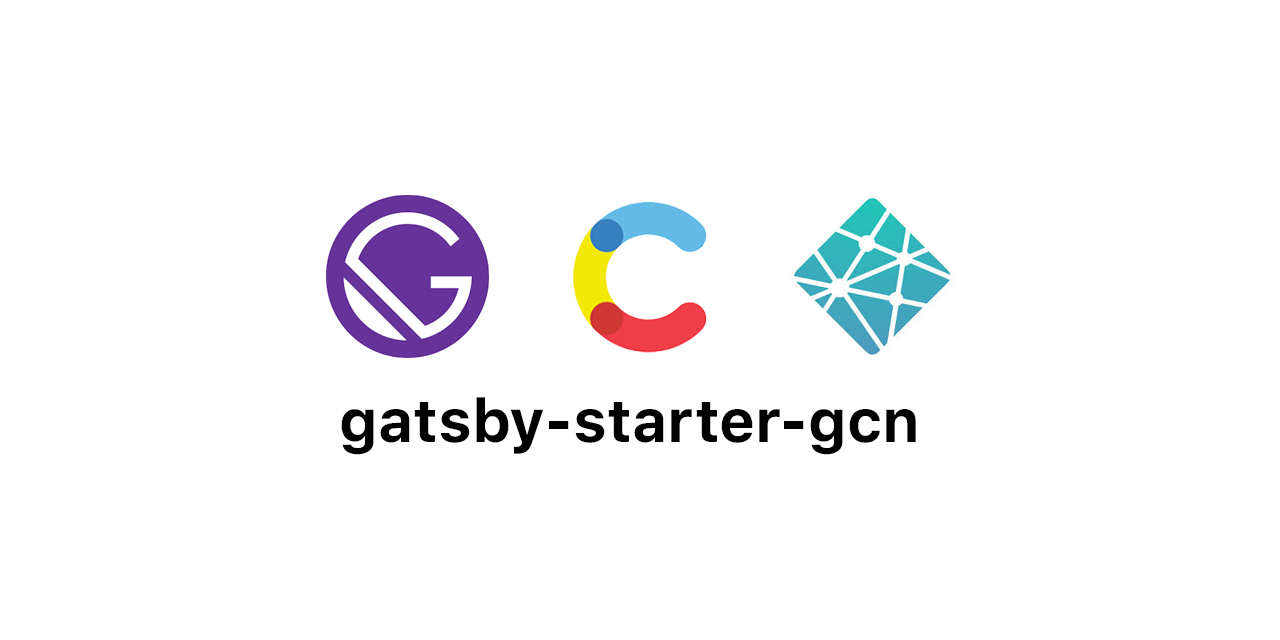
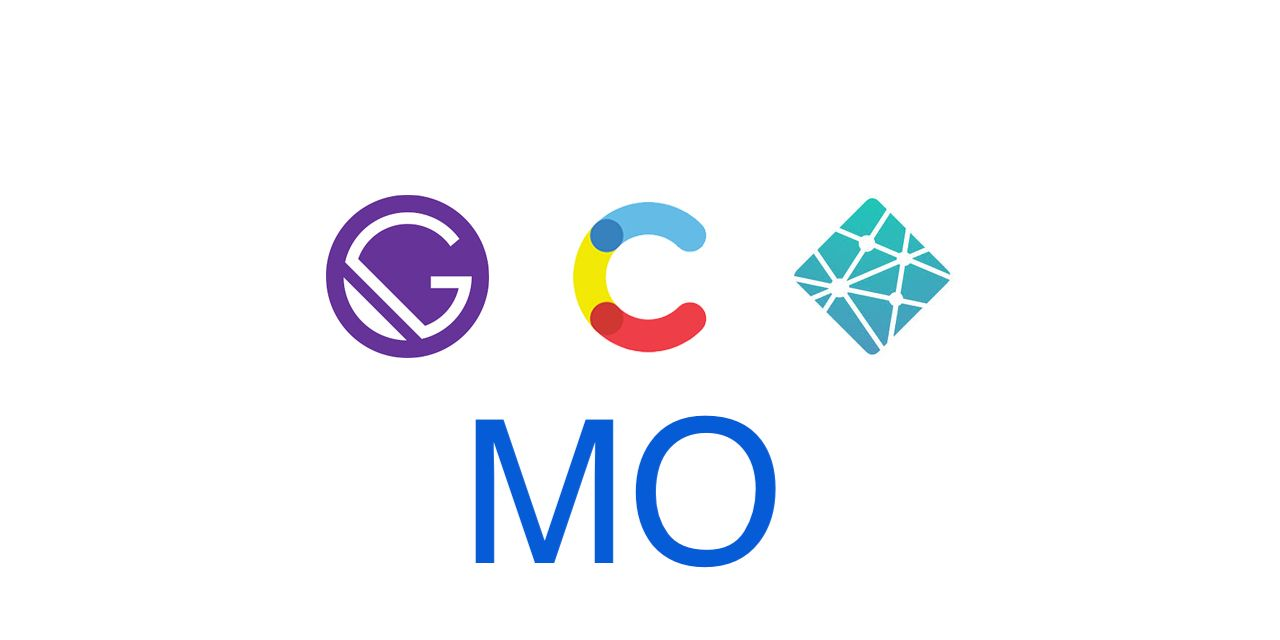
navigation update, share image update

diff --git a/gatsby-config.js b/gatsby-config.js
@@ -12,7 +12,7 @@ module.exports = {
   siteMetadata: {
     title: 'Merja Oksman',
     description:
-      'Merja Oksman, kaikessa mukana',
+      'Merja Oksman, monessa mukana',
     siteUrl: 'https://merjaoksman.fi',
     image: '/images/share.jpg',
     menuLinks: [
@@ -25,20 +25,16 @@ module.exports = {
         slug: '/kunta-ja-aluevaalit-2025/'
       },
       {
-        name: 'Julkaistuja kolumneja ja mielipiteitä',
-        slug: '/julkaistuja-kolumneja-ja-mielipiteitae/',
-      },
-      {
         name: 'Monessa mukana',
         slug: '/monessa-mukana/',
       },
       {
-        name: 'Voimaannuttavaa',
-        slug: '/voimaannuttavaa/',
+        name: 'Julkaistuja kolumneja ja mielipiteitä',
+        slug: '/julkaistuja-kolumneja-ja-mielipiteitae/',
       },
       {
-        name: 'Ota yhteyttä',
-        slug: '/contact/',
+        name: 'Voimaannuttavaa',
+        slug: '/voimaannuttavaa/',
       },
     ],
     postsPerFirstPage: 7,
